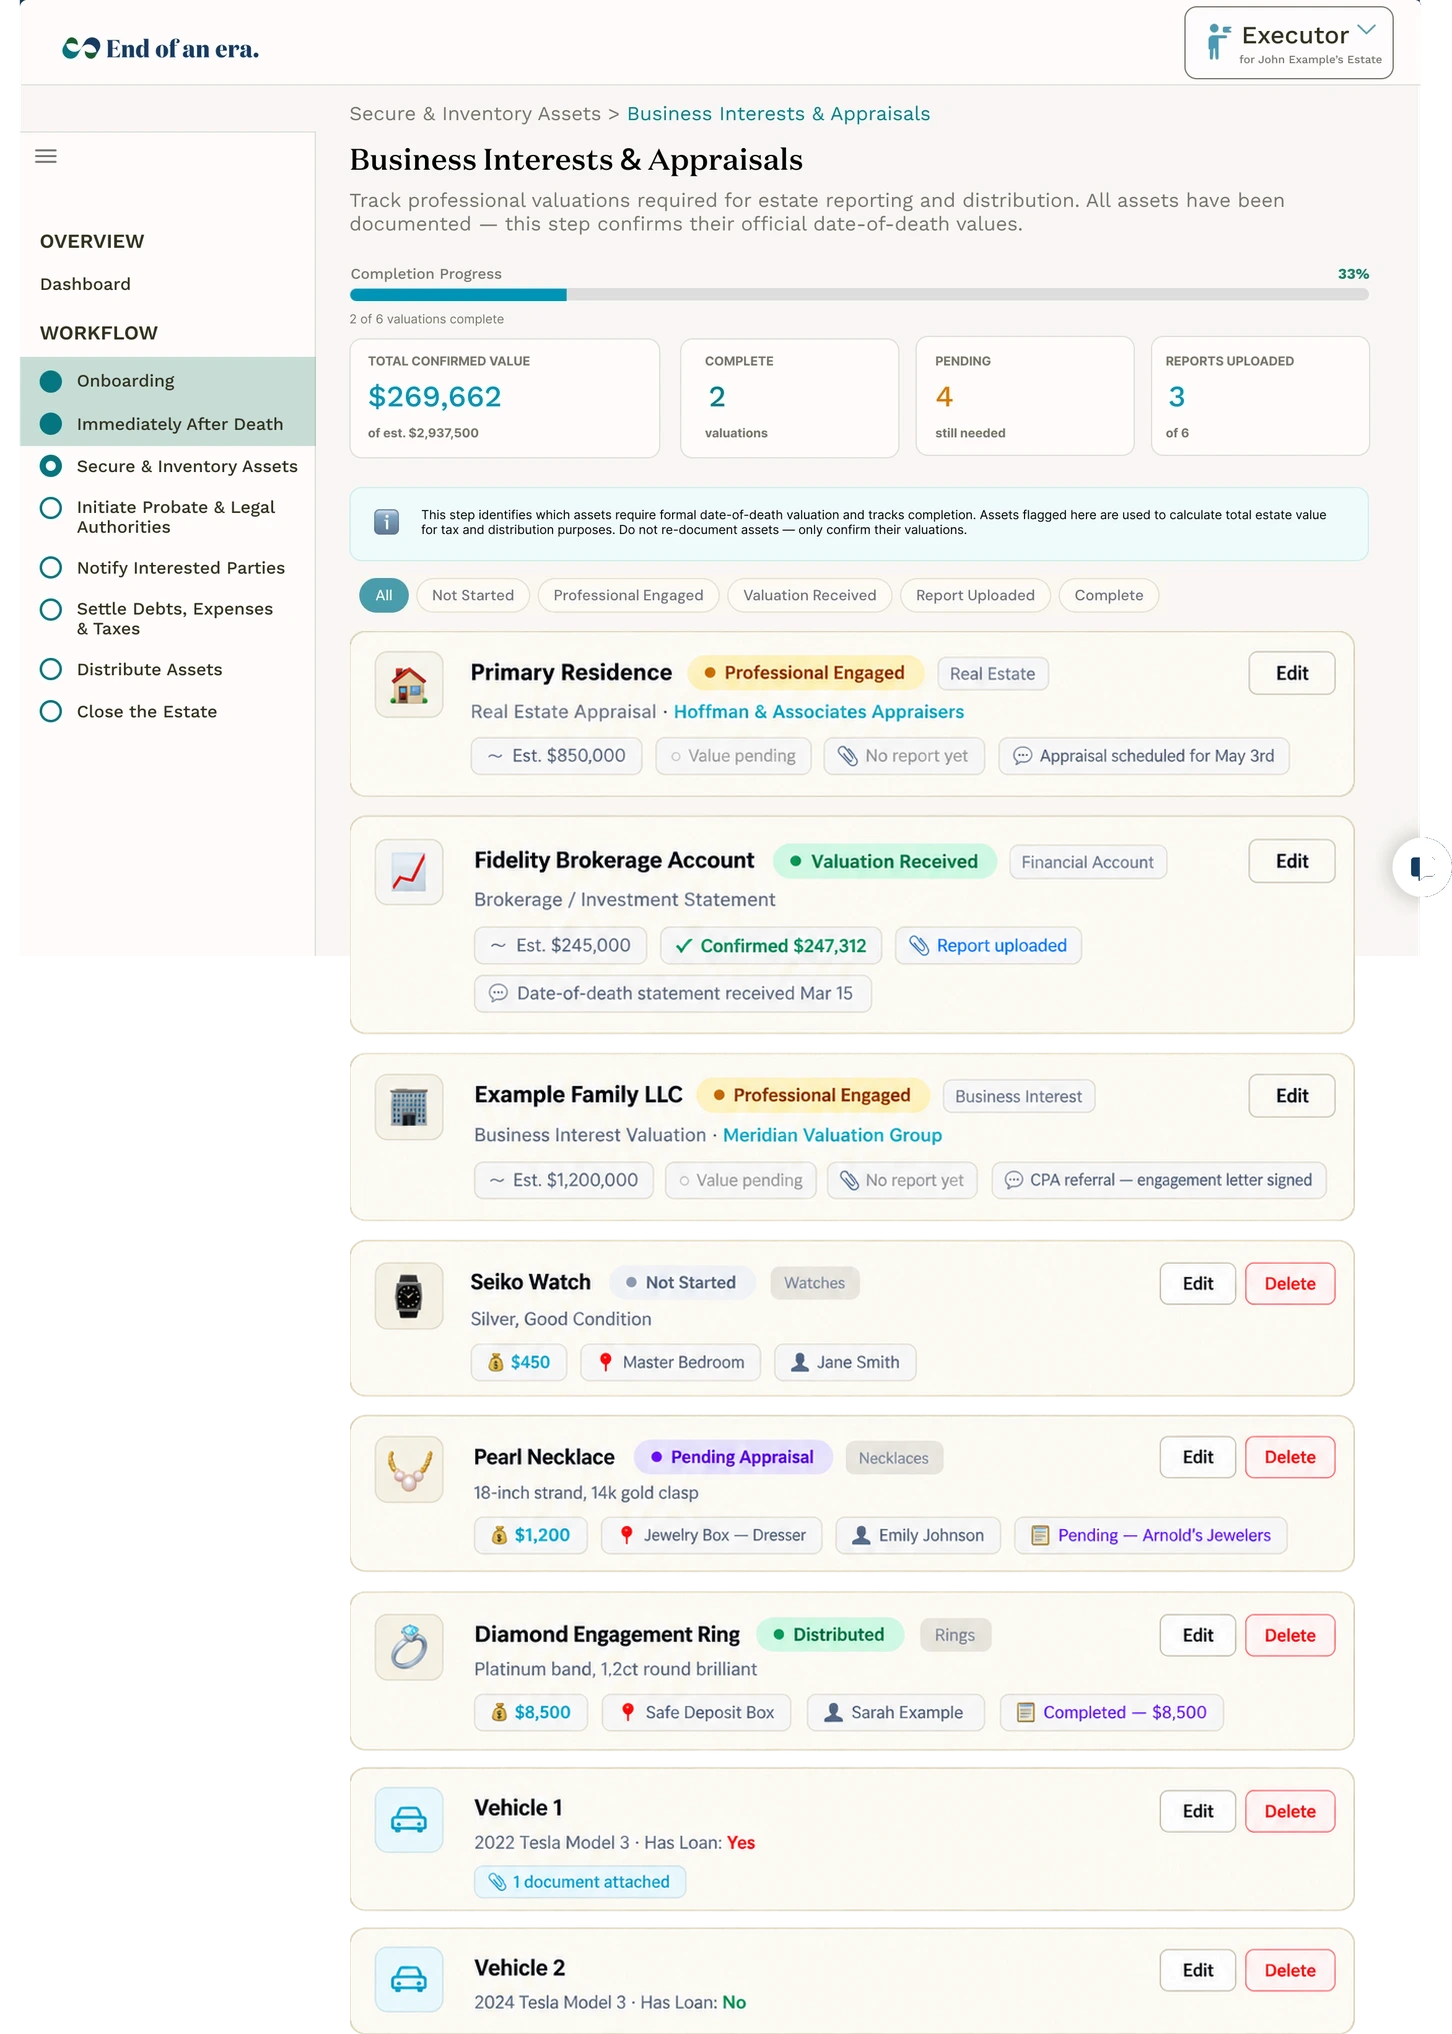
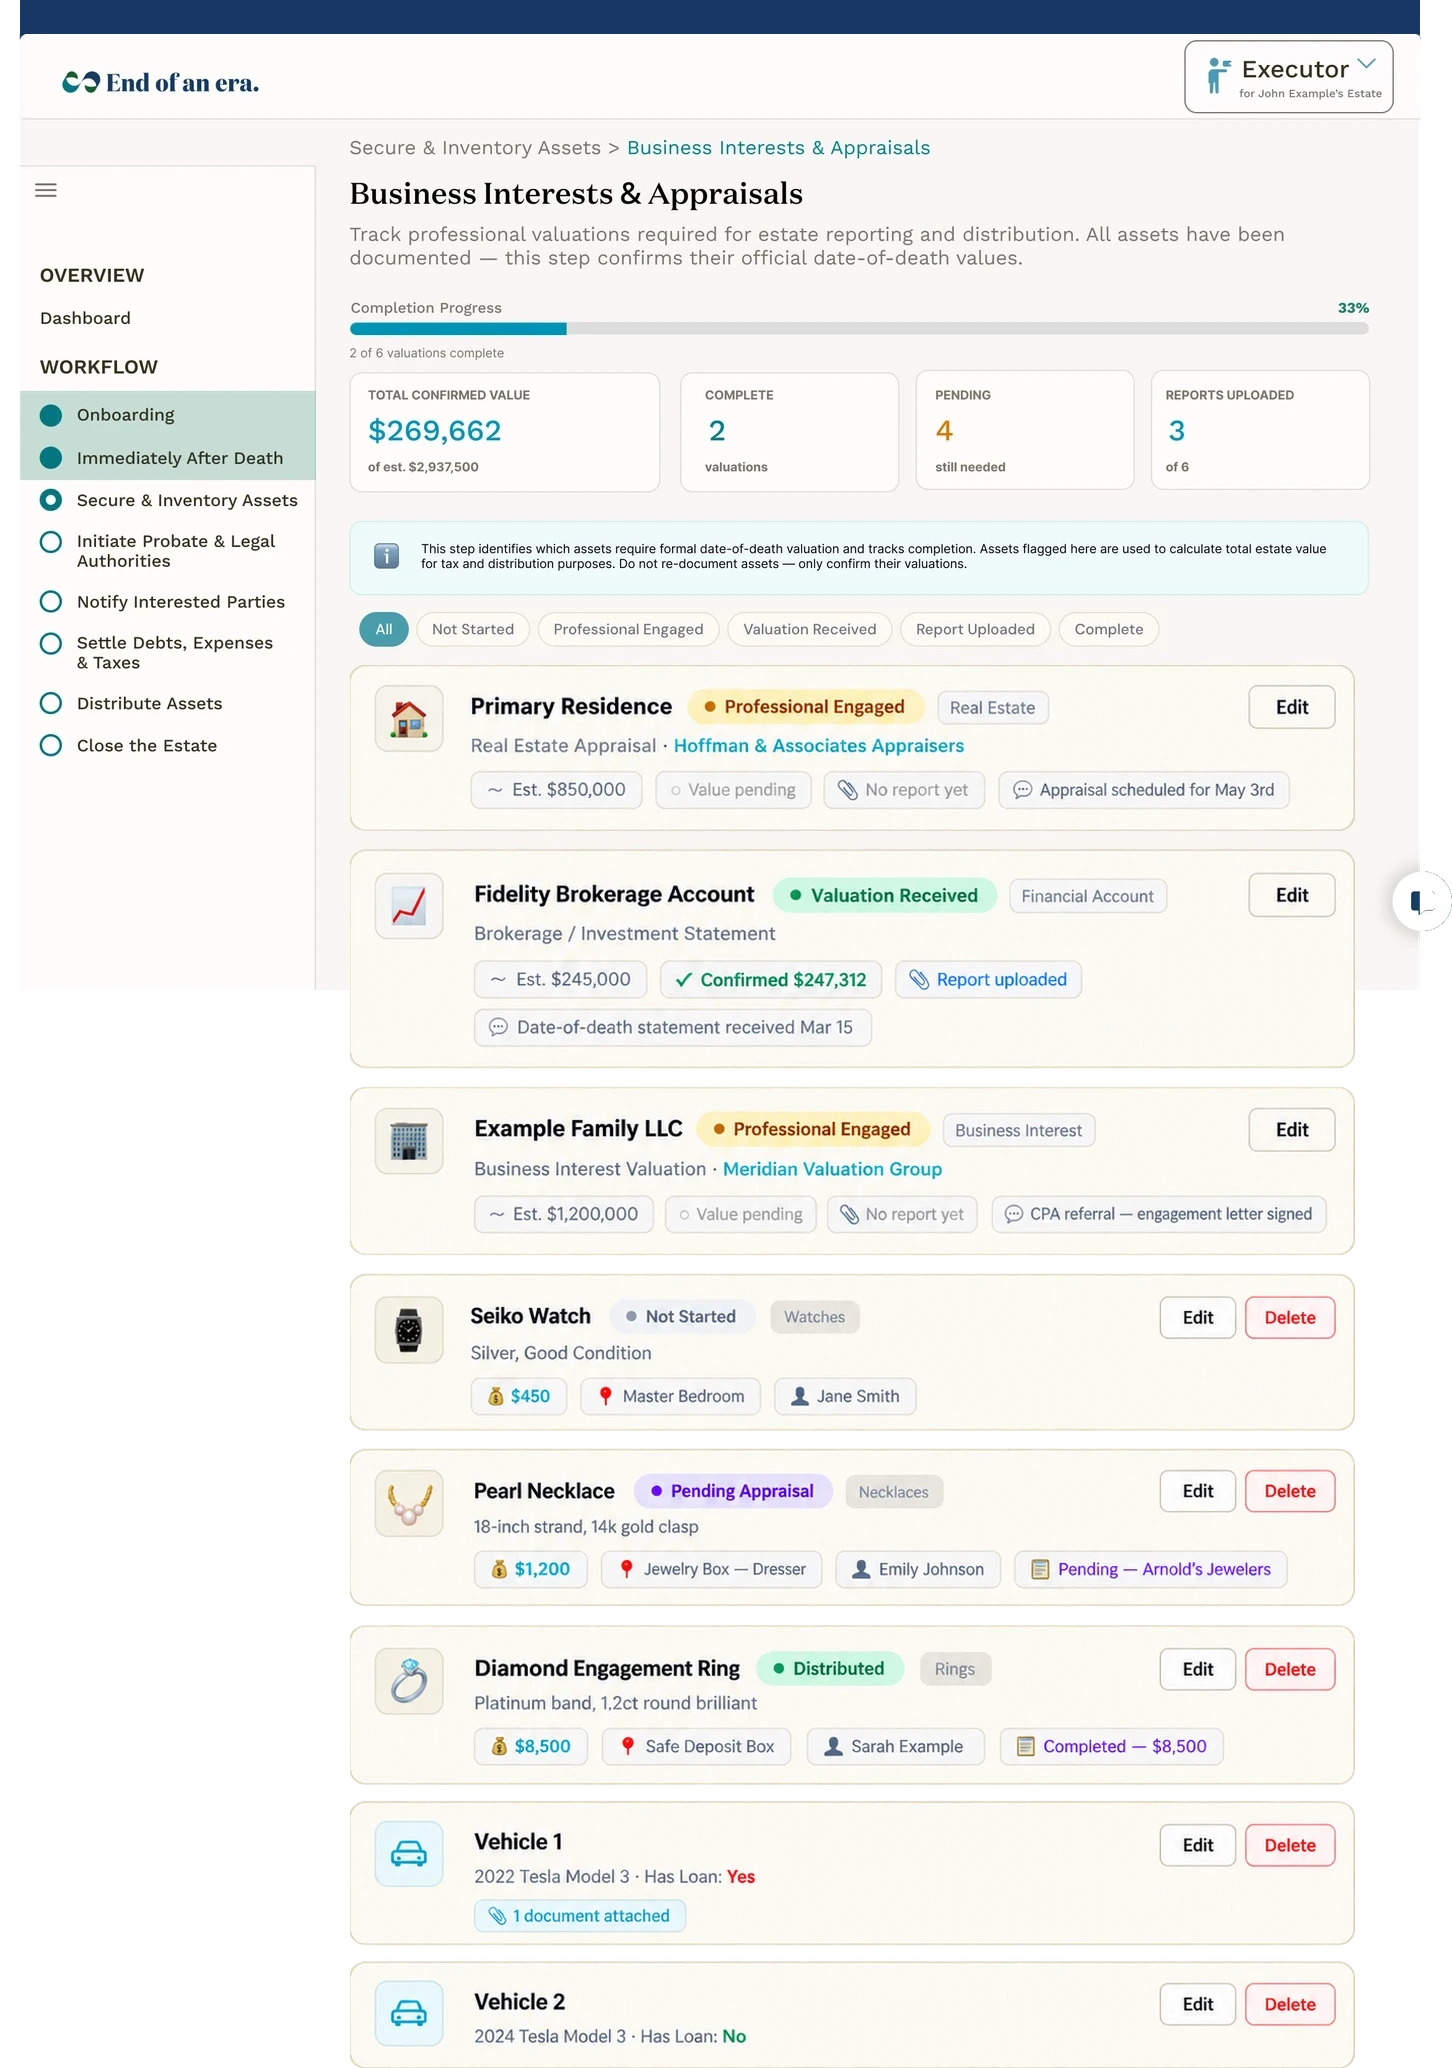
End of an Era: navy top bar on the appraisal tracking screen

diff --git a/app/work/end-of-an-era/frames.ts b/app/work/end-of-an-era/frames.ts
@@ -37,7 +37,7 @@ export const FRAMES = {
   "personal-noplanner-2": { w: 1100, h: 1764, win: null },
   "personal-noplanner-3": { w: 1408, h: 1024, win: [3, 20, 1400, 995] },
   "business-noplanner-1": { w: 1427, h: 1356, win: [7, 20, 1400, 1009] },
-  "business-noplanner-2": { w: 1452, h: 2034, win: [20, 0, 1400, 956] },
+  "business-noplanner-2": { w: 1452, h: 2068, win: [20, 0, 1400, 990] },
   "liab-planner-1": { w: 1414, h: 1734, win: [7, 20, 1400, 939] },
   "liab-planner-2": { w: 1415, h: 1102, win: [5, 20, 1400, 1001] },
   "liab-planner-3": { w: 1408, h: 1027, win: [3, 20, 1400, 995] },
